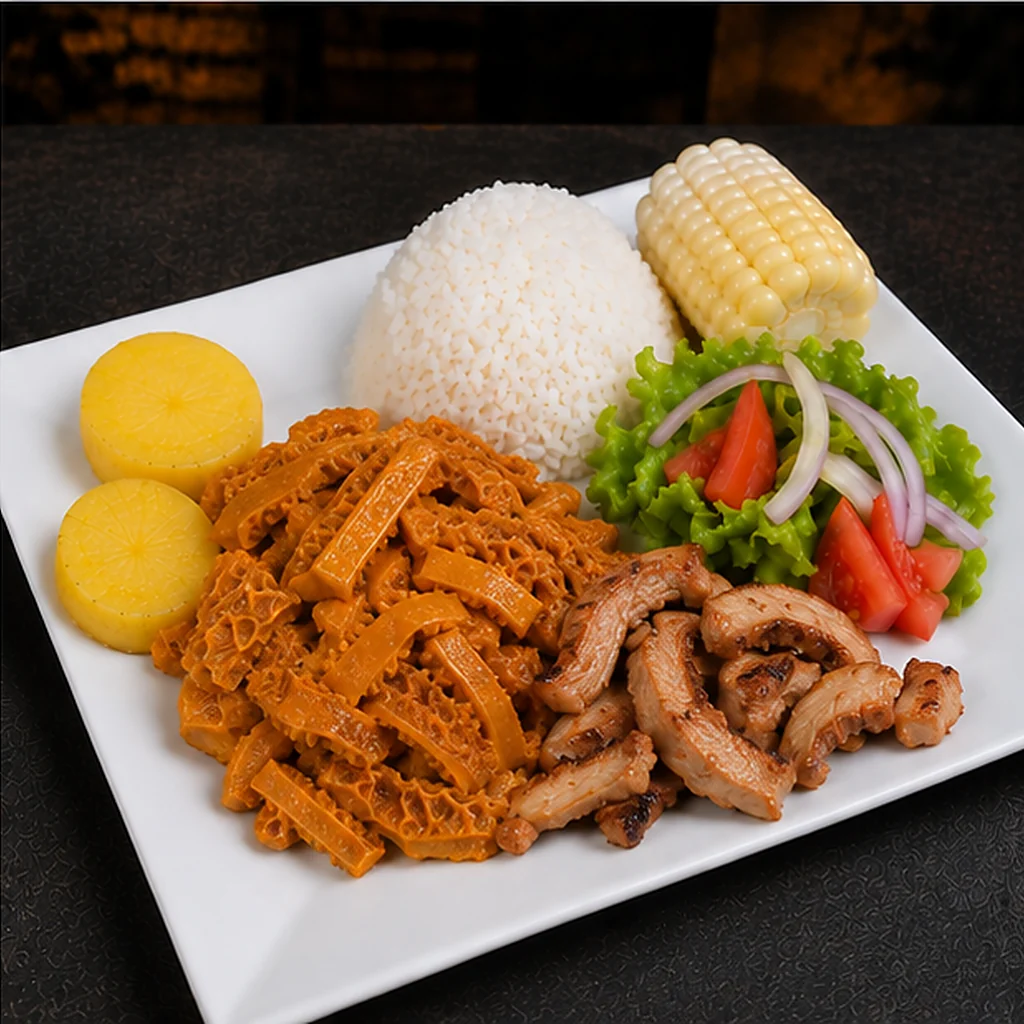
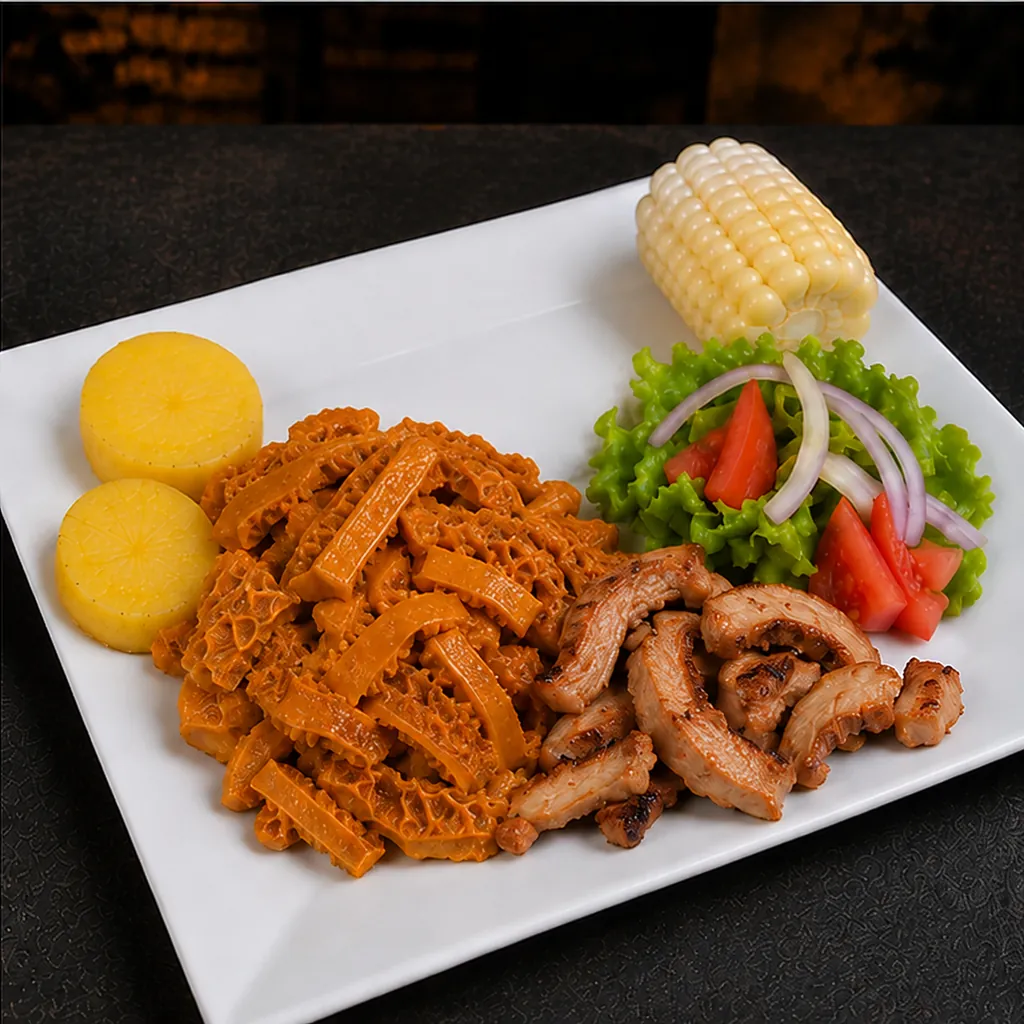
Quitar arroz de platos tradicionales y mixtos

diff --git a/src/data/menuData.ts b/src/data/menuData.ts
@@ -4,6 +4,7 @@ export interface Dish {
   descripcion?: string;
   precio: string;
   imagen: string;
+  sideOptions?: string[];
 }
 
 export interface Category {
@@ -14,6 +15,8 @@ export interface Category {
 }
 
 const grillSide = "Papa + arroz + choclo + ensalada";
+const grillSideWithoutRice = "Papa + choclo + ensalada";
+const noRiceSides = ["Papa", "Choclo", "Ensalada"];
 const menuImage = (file: string) => `/menu-images/${file}`;
 
 export const DEFAULT_MENU_DATA: Category[] = [
@@ -22,26 +25,26 @@ export const DEFAULT_MENU_DATA: Category[] = [
     items: [
       { numero: 1, nombre: "3 palos de anticuchos o 3 brochetas de pollo", descripcion: grillSide, precio: "S/ 15.00", imagen: menuImage("trad-01-anticuchos.webp") },
       { numero: 2, nombre: "2 palos de anticucho o 2 brochetas de pollo", descripcion: grillSide, precio: "S/ 10.00", imagen: menuImage("trad-02-anticuchos.webp") },
-      { numero: 3, nombre: "Pancita", descripcion: grillSide, precio: "S/ 12.00", imagen: menuImage("trad-03-pancita.webp") },
-      { numero: 4, nombre: "Rachi", descripcion: grillSide, precio: "S/ 18.00", imagen: menuImage("trad-04-rachi.webp") },
-      { numero: 5, nombre: "Molleja", descripcion: grillSide, precio: "S/ 14.00", imagen: menuImage("trad-05-molleja.webp") },
+      { numero: 3, nombre: "Pancita", descripcion: grillSideWithoutRice, precio: "S/ 12.00", imagen: menuImage("trad-03-pancita.webp"), sideOptions: noRiceSides },
+      { numero: 4, nombre: "Rachi", descripcion: grillSideWithoutRice, precio: "S/ 18.00", imagen: menuImage("trad-04-rachi.webp"), sideOptions: noRiceSides },
+      { numero: 5, nombre: "Molleja", descripcion: grillSideWithoutRice, precio: "S/ 14.00", imagen: menuImage("trad-05-molleja.webp"), sideOptions: noRiceSides },
     ],
   },
   {
     id: "mixtos", nombre: "Mixtos", etiqueta: "Combina tus preferidos",
     items: [
-      { numero: 6, nombre: "1 palo de anticucho + pancita", descripcion: grillSide, precio: "S/ 10.00", imagen: menuImage("mixto-06.webp") },
-      { numero: 7, nombre: "2 palos de anticucho + pancita", descripcion: grillSide, precio: "S/ 14.00", imagen: menuImage("mixto-07.webp") },
-      { numero: 8, nombre: "2 palos de anticucho + rachi", descripcion: grillSide, precio: "S/ 18.00", imagen: menuImage("mixto-08.webp") },
-      { numero: 9, nombre: "2 palos de anticucho + molleja", descripcion: grillSide, precio: "S/ 17.00", imagen: menuImage("mixto-09.webp") },
-      { numero: 10, nombre: "Pancita + molleja", descripcion: grillSide, precio: "S/ 15.00", imagen: menuImage("mixto-10.webp") },
-      { numero: 11, nombre: "Rachi + molleja", descripcion: grillSide, precio: "S/ 18.00", imagen: menuImage("mixto-11.webp") },
-      { numero: 12, nombre: "Rachi + pancita", descripcion: grillSide, precio: "S/ 18.00", imagen: menuImage("mixto-12.webp") },
-      { numero: 13, nombre: "Rachi + pancita + molleja", descripcion: grillSide, precio: "S/ 20.00", imagen: menuImage("mixto-13.webp") },
-      { numero: 14, nombre: "1 palo de anticucho + pancita + molleja", descripcion: grillSide, precio: "S/ 20.00", imagen: menuImage("mixto-14.webp") },
-      { numero: 15, nombre: "1 palo de anticucho + rachi + pancita", descripcion: grillSide, precio: "S/ 20.00", imagen: menuImage("mixto-15.webp") },
-      { numero: 16, nombre: "1 palo de anticucho + rachi + molleja", descripcion: grillSide, precio: "S/ 20.00", imagen: menuImage("mixto-16.webp") },
-      { numero: 17, nombre: "1 palo de anticucho + rachi + pancita + molleja", descripcion: grillSide, precio: "S/ 22.00", imagen: menuImage("mixto-17.webp") },
+      { numero: 6, nombre: "1 palo de anticucho + pancita", descripcion: grillSideWithoutRice, precio: "S/ 10.00", imagen: menuImage("mixto-06.webp"), sideOptions: noRiceSides },
+      { numero: 7, nombre: "2 palos de anticucho + pancita", descripcion: grillSideWithoutRice, precio: "S/ 14.00", imagen: menuImage("mixto-07.webp"), sideOptions: noRiceSides },
+      { numero: 8, nombre: "2 palos de anticucho + rachi", descripcion: grillSideWithoutRice, precio: "S/ 18.00", imagen: menuImage("mixto-08.webp"), sideOptions: noRiceSides },
+      { numero: 9, nombre: "2 palos de anticucho + molleja", descripcion: grillSideWithoutRice, precio: "S/ 17.00", imagen: menuImage("mixto-09.webp"), sideOptions: noRiceSides },
+      { numero: 10, nombre: "Pancita + molleja", descripcion: grillSideWithoutRice, precio: "S/ 15.00", imagen: menuImage("mixto-10.webp"), sideOptions: noRiceSides },
+      { numero: 11, nombre: "Rachi + molleja", descripcion: grillSideWithoutRice, precio: "S/ 18.00", imagen: menuImage("mixto-11.webp"), sideOptions: noRiceSides },
+      { numero: 12, nombre: "Rachi + pancita", descripcion: grillSideWithoutRice, precio: "S/ 18.00", imagen: menuImage("mixto-12.webp"), sideOptions: noRiceSides },
+      { numero: 13, nombre: "Rachi + pancita + molleja", descripcion: grillSideWithoutRice, precio: "S/ 20.00", imagen: menuImage("mixto-13.webp"), sideOptions: noRiceSides },
+      { numero: 14, nombre: "1 palo de anticucho + pancita + molleja", descripcion: grillSideWithoutRice, precio: "S/ 20.00", imagen: menuImage("mixto-14.webp"), sideOptions: noRiceSides },
+      { numero: 15, nombre: "1 palo de anticucho + rachi + pancita", descripcion: grillSideWithoutRice, precio: "S/ 20.00", imagen: menuImage("mixto-15.webp"), sideOptions: noRiceSides },
+      { numero: 16, nombre: "1 palo de anticucho + rachi + molleja", descripcion: grillSideWithoutRice, precio: "S/ 20.00", imagen: menuImage("mixto-16.webp"), sideOptions: noRiceSides },
+      { numero: 17, nombre: "1 palo de anticucho + rachi + pancita + molleja", descripcion: grillSideWithoutRice, precio: "S/ 22.00", imagen: menuImage("mixto-17.webp"), sideOptions: noRiceSides },
     ],
   },
   {

diff --git a/src/App.tsx b/src/App.tsx
@@ -84,7 +84,7 @@ export default function App() {
   const requestDish = (dish: Dish, categoryId: string) => {
     if (!dish.descripcion?.toLowerCase().includes("papa")) { addToCart(dish, categoryId); return; }
     setPendingDish({ dish, categoryId });
-    setSelectedSides([...SIDE_OPTIONS]);
+    setSelectedSides([...(dish.sideOptions ?? SIDE_OPTIONS)]);
     setSelectedCreams([]);
   };
 
@@ -261,9 +261,9 @@ export default function App() {
         <Modal onClose={() => setPendingDish(null)}>
           <div className="modal-heading customization-heading"><span>Arma tu plato</span><h2>{pendingDish.dish.nombre}</h2><p>Personaliza los acompañamientos antes de agregarlo.</p></div>
           <div className="customization-group">
-            <div className="customization-title"><h3>Guarniciones</h3><small>Las cuatro vienen seleccionadas</small></div>
+            <div className="customization-title"><h3>Guarniciones</h3><small>Todas vienen seleccionadas</small></div>
             <div className="customization-options">
-              {SIDE_OPTIONS.map((option) => {
+              {(pendingDish.dish.sideOptions ?? SIDE_OPTIONS).map((option) => {
                 const selected = selectedSides.includes(option);
                 return <button type="button" className={selected ? "selected" : ""} aria-pressed={selected} onClick={() => toggleSelection(option, selectedSides, setSelectedSides)} key={option}><span>{selected && <Check size={13} strokeWidth={3} />}</span>{option}</button>;
               })}
